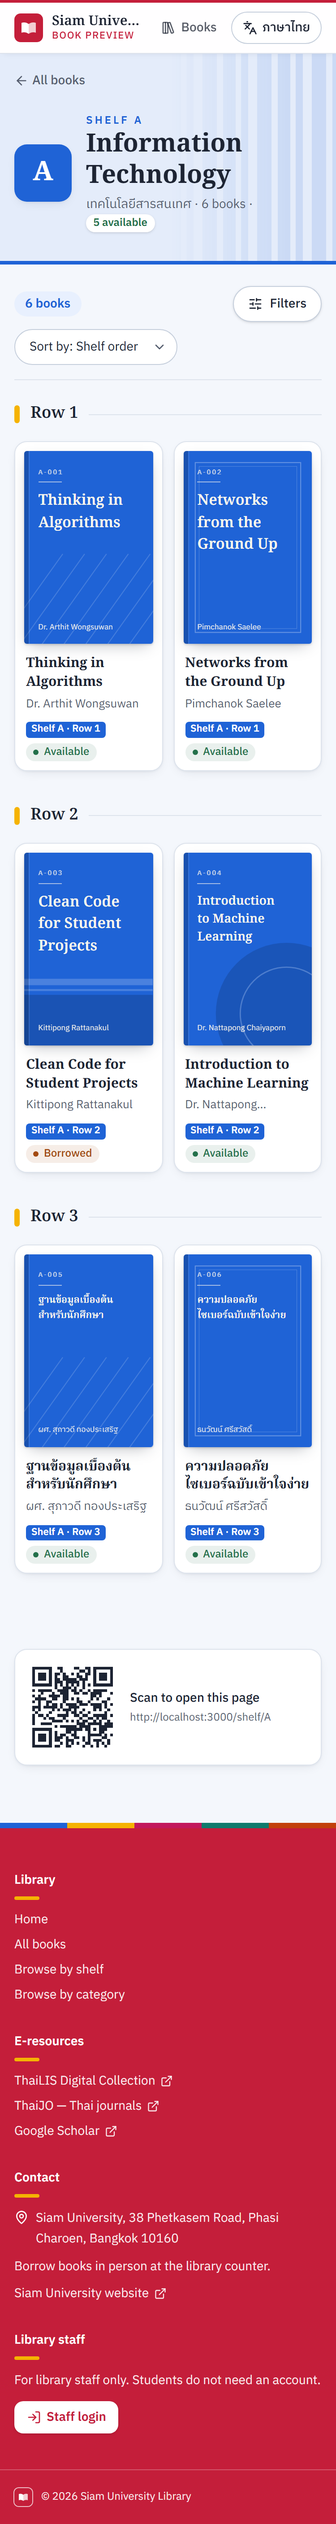
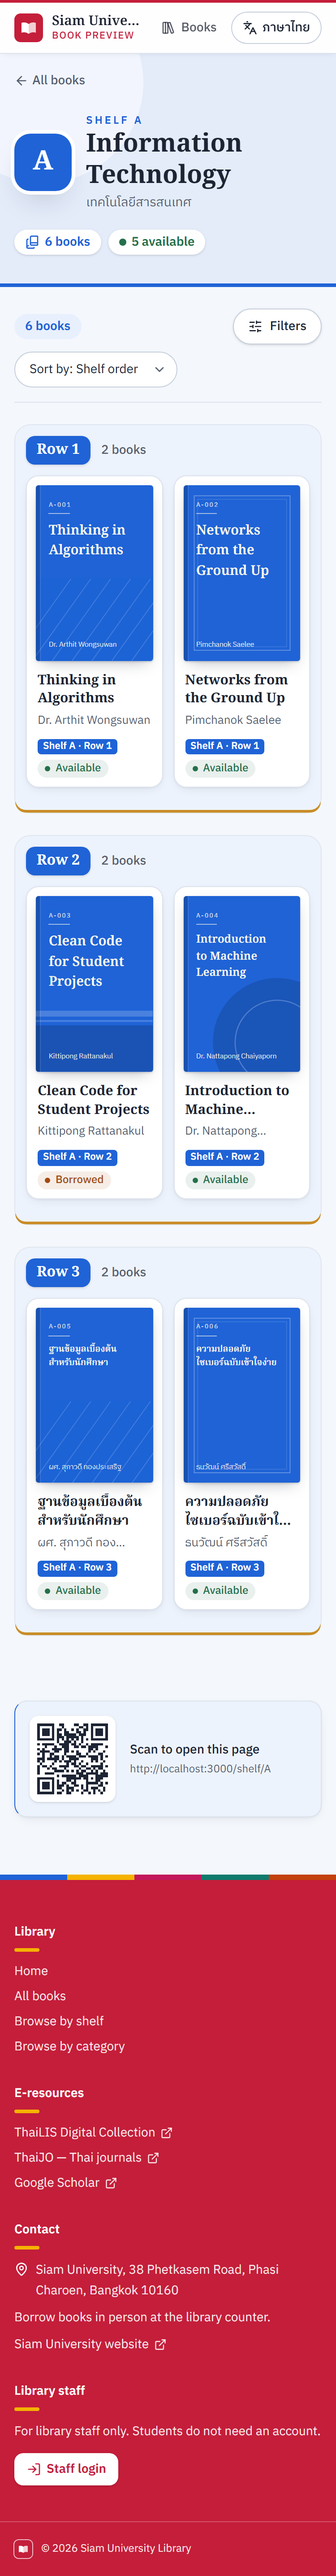
Shelf page in colour: shelf drawing and count chips in the header, rows drawn as tinted bookshelves with a wooden plank, tinted QR card

diff --git a/src/app/(site)/shelf/[code]/page.tsx b/src/app/(site)/shelf/[code]/page.tsx
@@ -1,9 +1,10 @@
 import type { Metadata } from "next";
 import Link from "next/link";
 import { notFound } from "next/navigation";
-import { ArrowLeft } from "lucide-react";
+import { ArrowLeft, BookCopy } from "lucide-react";
 import { BookQr } from "@/components/book-qr";
 import { CatalogueView } from "@/components/catalogue/catalogue-view";
+import { ShelfArt } from "@/components/hero-illustration";
 import { getShelfByCode } from "@/lib/books";
 import { loadCatalogue } from "@/lib/catalogue-page";
 import { readableOn, shelfInk, tint } from "@/lib/colors";
@@ -29,51 +30,61 @@ export default async function ShelfPage({ params, searchParams }: PageProps<"/sh
   const counts = data.shelves.find((s) => s.code === shelf.code);
   const ink = shelfInk(shelf.color);
 
+  const soft = tint(shelf.color);
+  const total = (counts?.total ?? 0).toLocaleString("en-US");
+  const available = (counts?.available ?? 0).toLocaleString("en-US");
+
   return (
     <>
-      <section className="relative overflow-hidden border-b-4" style={{ background: tint(shelf.color), borderBottomColor: ink }}>
-        <span
-          className="pointer-events-none absolute inset-y-0 right-0 w-1/2 opacity-[0.12]"
-          style={{
-            background: `repeating-linear-gradient(90deg,${ink} 0 14px,transparent 14px 20px,${ink} 20px 28px,transparent 28px 38px,${ink} 38px 54px,transparent 54px 61px)`,
-            maskImage: "linear-gradient(90deg,transparent,#000 70%)",
-          }}
-          aria-hidden="true"
-        />
+      <section className="relative overflow-hidden border-b-4" style={{ background: soft, borderBottomColor: ink }}>
+        <span className="pointer-events-none absolute -top-20 -left-16 size-56 rounded-full bg-white/50" aria-hidden="true" />
+        <ShelfArt color={ink} className="pointer-events-none absolute right-4 bottom-0 hidden h-40 md:block lg:right-[max(1rem,calc((100vw-72rem)/2+1rem))]" />
         <div className="relative mx-auto max-w-6xl px-4 pt-5 pb-8 sm:pt-7 sm:pb-10">
           <Link href="/books" className="inline-flex items-center gap-1 rounded-sm text-sm font-medium text-muted-foreground underline-offset-4 hover:text-primary hover:underline">
             <ArrowLeft className="size-4" aria-hidden="true" />
             {t.backToBooks}
           </Link>
-          <div className="mt-5 flex items-center gap-4">
+          <div className="mt-5 flex items-center gap-4 md:pr-64">
             <span
-              className="grid size-16 shrink-0 place-items-center rounded-xl font-serif text-3xl font-bold text-white shadow-(--shadow-card) sm:size-20 sm:text-4xl"
+              className="grid size-16 shrink-0 place-items-center rounded-2xl font-serif text-3xl font-bold text-white shadow-(--shadow-lift) ring-4 ring-white sm:size-20 sm:text-4xl"
               style={{ background: ink }}
             >
               {shelf.code}
             </span>
             <div className="min-w-0">
-              <p className="eyebrow font-semibold" style={{ color: readableOn(shelf.color, tint(shelf.color)) }}>{fmt(t.shelfHeading, { code: shelf.code })}</p>
-              <h1 className="font-serif text-[1.75rem] leading-tight font-bold sm:text-4xl">
-                {locale === "th" ? shelf.nameTh : shelf.nameEn}
-              </h1>
-              <p className="mt-1 text-sm text-muted-foreground">
-                {locale === "th" ? shelf.nameEn : shelf.nameTh} · {fmt(t.booksCount, { n: (counts?.total ?? 0).toLocaleString("en-US") })} ·{" "}
-                <span className="inline-flex items-center gap-1.5 rounded-full bg-white px-2 py-0.5 text-xs font-semibold text-available shadow-sm">{fmt(t.availableCount, { n: (counts?.available ?? 0).toLocaleString("en-US") })}</span>
+              <p className="eyebrow font-semibold" style={{ color: readableOn(shelf.color, soft) }}>
+                {fmt(t.shelfHeading, { code: shelf.code })}
               </p>
+              <h1 className="font-serif text-[1.75rem] leading-tight font-bold sm:text-4xl">{locale === "th" ? shelf.nameTh : shelf.nameEn}</h1>
+              <p className="mt-0.5 text-sm text-muted-foreground">{locale === "th" ? shelf.nameEn : shelf.nameTh}</p>
             </div>
+          </div>
+          <div className="mt-5 flex flex-wrap items-center gap-2">
+            <span className="inline-flex items-center gap-1.5 rounded-full bg-white px-3 py-1 text-sm font-semibold shadow-sm" style={{ color: ink }}>
+              <BookCopy className="size-4" aria-hidden="true" />
+              {fmt(t.booksCount, { n: total })}
+            </span>
+            <span className="inline-flex items-center gap-1.5 rounded-full bg-white px-3 py-1 text-sm font-semibold text-available shadow-sm">
+              <span className="size-2 rounded-full bg-available" aria-hidden="true" />
+              {fmt(t.availableCount, { n: available })}
+            </span>
           </div>
         </div>
       </section>
 
       <div className="bg-page">
-        <CatalogueView {...data} basePath={`/shelf/${shelf.code}`} fixed={data.fixedKeys} groupByRow={data.sort === "shelf"} />
-
-      <div className="mx-auto -mt-4 max-w-6xl px-4 pb-16">
-        <div className="max-w-md">
-          <BookQr path={`/shelf/${shelf.code}`} label={t.scanToOpen} code={shelf.code} />
+        <CatalogueView
+          {...data}
+          basePath={`/shelf/${shelf.code}`}
+          fixed={data.fixedKeys}
+          groupByRow={data.sort === "shelf"}
+          accent={shelf.color}
+        />
+        <div className="mx-auto -mt-4 max-w-6xl px-4 pb-16">
+          <div className="max-w-md">
+            <BookQr path={`/shelf/${shelf.code}`} label={t.scanToOpen} code={shelf.code} accent={shelf.color} />
+          </div>
         </div>
-      </div>
       </div>
     </>
   );

diff --git a/src/components/catalogue/catalogue-view.tsx b/src/components/catalogue/catalogue-view.tsx
@@ -8,12 +8,15 @@ import { Pagination } from "./pagination";
 import { catalogueHref, defaultSort, PAGE_SIZE, type Sort } from "@/lib/catalogue";
 import { categoryLabel, fmt } from "@/lib/dict";
 import type { CataloguePage } from "@/lib/books";
+import { shelfInk, tint } from "@/lib/colors";
 
 type Props = FilterPanelProps & {
   result: CataloguePage;
   showPhotos: boolean;
   /** Shelf pages in shelf order: put "Row n" headings between the books. */
   groupByRow?: boolean;
+  /** Shelf pages: the shelf colour — each row is drawn as a tinted bookshelf with a wooden plank. */
+  accent?: string;
 };
 
 /**
@@ -21,7 +24,7 @@ type Props = FilterPanelProps & {
  * filter sidebar (bottom sheet on phones) · result count + sort · grid · page numbers.
  */
 export function CatalogueView(props: Props) {
-  const { t, locale, basePath, params, fixed, categories, result, showPhotos, groupByRow } = props;
+  const { t, locale, basePath, params, fixed, categories, result, showPhotos, groupByRow, accent } = props;
   const { books, total, page, pageCount } = result;
   const sort: Sort = params.sort ?? defaultSort(params);
   const activeCount = activeFilterCount(props);
@@ -133,16 +136,33 @@ export function CatalogueView(props: Props) {
         <div className="pt-6">
           {books.length > 0 ? (
             groupByRow ? (
-              rows.map((row) => (
-                <section key={row} className="pb-9">
-                  <h2 className="mb-4 flex items-center gap-3 font-serif text-lg font-semibold">
-                    <span className="h-5 w-1.5 rounded-full bg-sun" aria-hidden="true" />
-                    {fmt(t.shelfRowHeading, { row })}
-                    <span className="h-px flex-1 bg-border" aria-hidden="true" />
-                  </h2>
-                  <BookGrid books={books.filter((b) => b.row === row)} t={t} locale={locale} showPhotos={showPhotos} withSidebar />
-                </section>
-              ))
+              rows.map((row) => {
+                const inRow = books.filter((b) => b.row === row);
+                return accent ? (
+                  <section key={row} className="mb-6 rounded-2xl border border-black/5 p-3 pb-0 sm:p-4 sm:pb-0" style={{ background: tint(accent, 0.92) }}>
+                    <div className="mb-3 flex items-center gap-3">
+                      <h2 className="rounded-lg px-3 py-1 font-serif text-base font-bold text-white shadow-sm" style={{ background: shelfInk(accent) }}>
+                        {fmt(t.shelfRowHeading, { row })}
+                      </h2>
+                      <span className="text-sm font-medium text-muted-foreground">
+                        {inRow.length === 1 ? t.bookCount1 : fmt(t.booksCount, { n: inRow.length })}
+                      </span>
+                    </div>
+                    <BookGrid books={inRow} t={t} locale={locale} showPhotos={showPhotos} withSidebar />
+                    {/* the wooden plank the books stand on */}
+                    <div className="-mx-3 mt-4 h-3 rounded-b-2xl bg-wood shadow-[inset_0_-3px_0_var(--wood-dark)] sm:-mx-4" aria-hidden="true" />
+                  </section>
+                ) : (
+                  <section key={row} className="pb-9">
+                    <h2 className="mb-4 flex items-center gap-3 font-serif text-lg font-semibold">
+                      <span className="h-5 w-1.5 rounded-full bg-sun" aria-hidden="true" />
+                      {fmt(t.shelfRowHeading, { row })}
+                      <span className="h-px flex-1 bg-border" aria-hidden="true" />
+                    </h2>
+                    <BookGrid books={inRow} t={t} locale={locale} showPhotos={showPhotos} withSidebar />
+                  </section>
+                );
+              })
             ) : (
               <BookGrid books={books} t={t} locale={locale} showPhotos={showPhotos} withSidebar />
             )

diff --git a/src/components/book-qr.tsx b/src/components/book-qr.tsx
@@ -1,12 +1,18 @@
+import { shelfInk, tint } from "@/lib/colors";
 import { qrSvg, siteUrl } from "@/lib/qr";
 
 /** Server component: QR code that opens the given site path. */
-export async function BookQr({ path, label, code }: { path: string; label: string; code: string }) {
+/** `accent` (shelf colour): tinted card with a coloured edge; the QR itself stays on white for scanning. */
+export async function BookQr({ path, label, code, accent }: { path: string; label: string; code: string; accent?: string }) {
   const svg = await qrSvg(path);
   return (
-    <div className="surface flex items-center gap-4 rounded-xl p-4" data-testid="book-qr">
+    <div
+      className="surface flex items-center gap-4 rounded-xl border-l-4 p-4"
+      style={accent ? { background: tint(accent, 0.92), borderLeftColor: shelfInk(accent) } : undefined}
+      data-testid="book-qr"
+    >
       <div
-        className="size-24 shrink-0 [&_svg]:h-full [&_svg]:w-full"
+        className="size-24 shrink-0 rounded-lg bg-white p-1.5 shadow-sm [&_svg]:h-full [&_svg]:w-full"
         role="img"
         aria-label={`QR ${code}`}
         // SVG is generated by the qrcode library from our own URL — not user HTML.

diff --git a/src/components/hero-illustration.tsx b/src/components/hero-illustration.tsx
@@ -87,3 +87,30 @@ export function SpineStrip({ className }: { className?: string }) {
     </svg>
   );
 }
+
+/** Shelf page header: books in shades of the shelf's own colour, plus a sun-yellow one (decorative). */
+const shelfBooks = [
+  { h: 96, o: 1 },
+  { h: 120, o: 0.7 },
+  { h: 108, o: 0.85 },
+  { h: 132, sun: true },
+  { h: 100, o: 0.55 },
+  { h: 124, o: 1 },
+  { h: 90, o: 0.75 },
+];
+
+export function ShelfArt({ color, className }: { color: string; className?: string }) {
+  return (
+    <svg viewBox="0 0 240 150" className={className} aria-hidden="true" focusable="false">
+      <circle cx="170" cy="56" r="48" fill="#fff" opacity=".55" />
+      {shelfBooks.map((b, i) => (
+        <g key={i}>
+          <rect x={10 + i * 31} y={140 - b.h} width="26" height={b.h} rx="3" fill={b.sun ? "var(--sun)" : color} opacity={b.sun ? 1 : b.o} />
+          <rect x={10 + i * 31} y={140 - b.h + 12} width="26" height="4" fill="#fff" opacity=".55" />
+          <rect x={10 + i * 31} y={140 - 18} width="26" height="3" fill="#fff" opacity=".4" />
+        </g>
+      ))}
+      <rect x="0" y="140" width="240" height="8" rx="3" fill="var(--wood)" />
+    </svg>
+  );
+}

diff --git a/CLAUDE.md b/CLAUDE.md
@@ -133,6 +133,8 @@ The live site uses the same emails with different random passwords — never wri
   C `#c2185b` (data migrations `*_shelf_colours`, `*_bright_shelf_colours`).
   Book page: "Find it at" card + colourful detail tiles; catalogue: coloured filter groups, shelf
   letters, category icons (fixed colour per category: `categoryStyle()` in category-tile.tsx).
+  Shelf page: header drawing in the shelf colour (`ShelfArt`), rows drawn as tinted bookshelves
+  with a wooden plank (`accent` prop of `<CatalogueView>`), QR card tinted.
 - 2026-11-15: `/books` catalogue (filters, sort, 24/page), category pages, home rows, pg_trgm
   search + live suggestions (`/api/suggest`). Playwright locally: 93 passed / 7 skipped.
   Migration `*_catalogue_search` (pg_trgm + indexes) applied to Neon preview + main.
@@ -149,5 +151,7 @@ Known gaps / not verified:
 - No web UI for staff accounts (use `npm run user:create`).
 - Book-form validation messages are translated (zod issues → `dict.ts`, forms `noValidate`).
 - End-of-preview text says the counter is on the ground floor — placeholder; confirm with the library.
+- The scanner auto-capture E2E test is timing-sensitive: it can fail once in a full run under load
+  but passes on its own (`--repeat-each=3`: 36/36).
 - Footer contact (university address) and e-resource links (ThaiLIS, ThaiJO, Google Scholar) are
   placeholders chosen for the redesign — confirm with the library.
